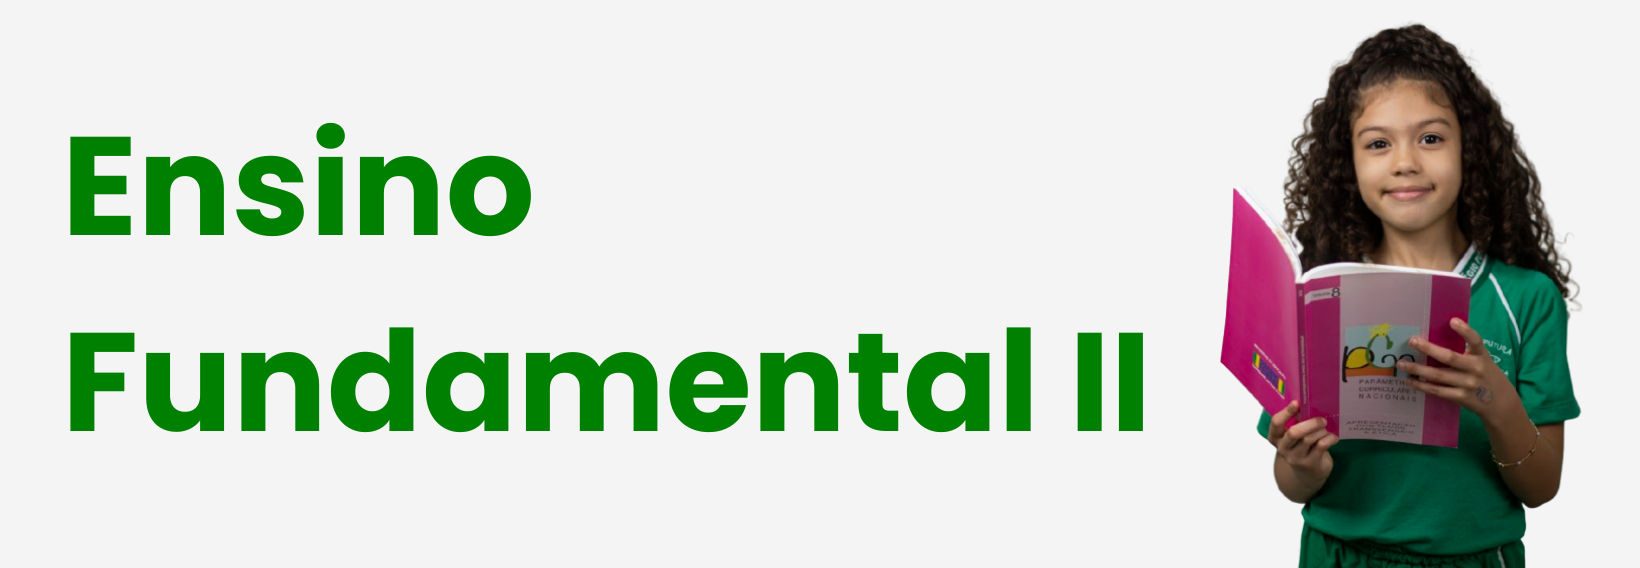
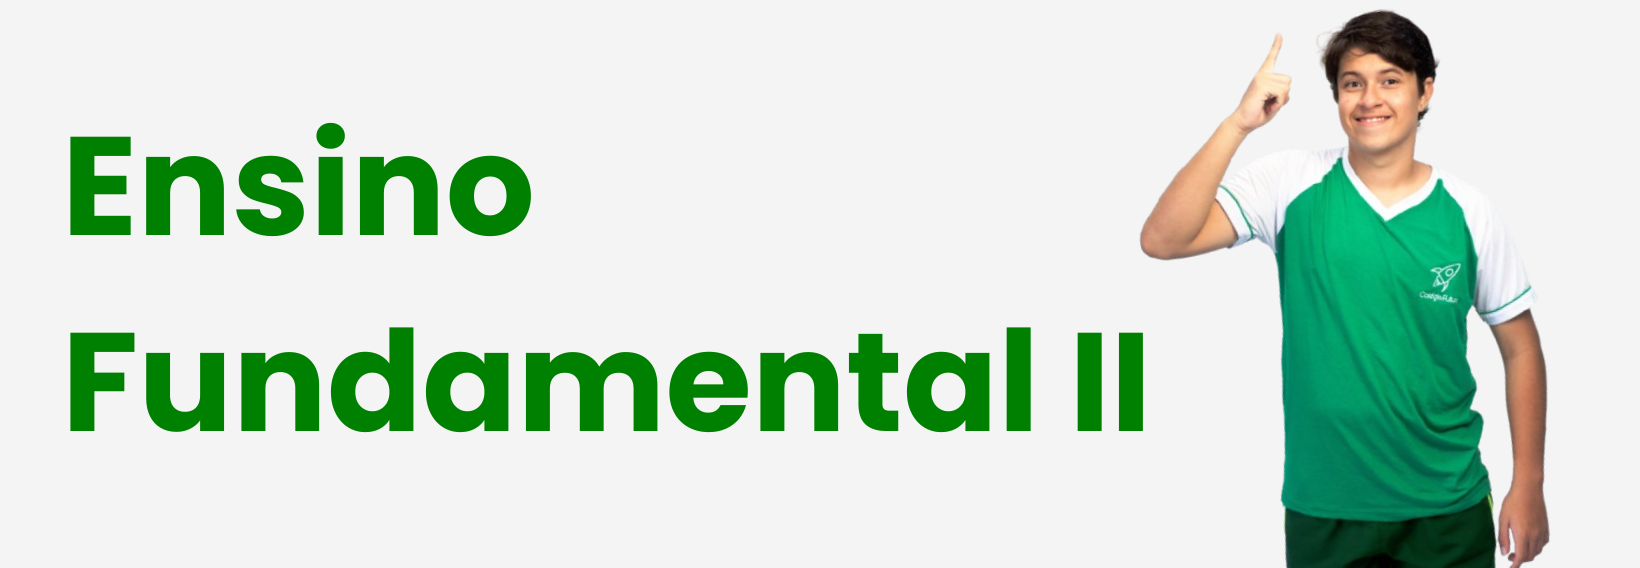
ajuste imagem nos ensinos

Changed region(s): [[0.6841, 0.0, 0.964, 1.0]]

diff --git a/html/ensino-fundamental1.html b/html/ensino-fundamental1.html
@@ -82,7 +82,7 @@
                     <p>Do ensino tradicional às práticas inovadoras, adaptamos nossas estratégias para atender às necessidades individuais de cada aluno, promovendo a excelência acadêmica e o crescimento pessoal. Utilizamos recursos educacionais diversificados e tecnologias 	modernas para enriquecer o processo de aprendizado, preparando nossos alunos para os desafios do mundo em constante evolução.</p>
                 </div>
                 <div class="galeria-container">
-                    <img src="../imagens/fundamentalI2.jpg" alt="Imagem Aboradagem Pedagógica">
+                    <img src="../imagens/fundamentalI2.jpg" alt="Imagem Ensino Fundamental 1">
                 </div>
             </div>
         </section>
@@ -90,7 +90,7 @@
             <h3 class="titulo" style="text-align:center; padding:5px 0;">Socioemocional</h3>
             <div style="display:flex; align-items:center;" class="wrapper">
                 <div class="galeria-container">
-                    <img src="../imagens/fundamentalI3.png" alt="Imagem Socioemocional">
+                    <img src="../imagens/fundamentalI3.jpg" alt="Imagem Socioemocional">
                 </div>
                 <div class="container">
                     <p>O ensino socioemocional no Ensino Fundamental 1 é crucial para o desenvolvimento das crianças, fornecendo habilidades fundamentais para lidar com emoções, resolver conflitos e estabelecer relacionamentos saudáveis. Essas habilidades não apenas contribuem para o bem-estar emocional dos alunos, mas também criam um ambiente escolar mais inclusivo e propício ao aprendizado. Ao ensinar empatia autorregulação e resolução de problemas estamos preparando os alunos para enfrentar os desafios da vida com confiança e compaixão.</p>
@@ -103,7 +103,7 @@
                 <div class="container">
                     <p>A educação financeira desempenha um papel crucial no ensino fundamental, preparando os alunos para uma vida adulta financeiramente estável e responsável. Durante esse período de 	formação, é fundamental que as crianças adquiram conhecimentos 	sólidos sobre como gerenciar dinheiro, fazer escolhas financeiras 	inteligentes e compreender o valor do trabalho e do planejamento.</p>
                 </div>
-                <div class="galeria-container">
+                <div style="object-fit: cover; object-position: top;" class="galeria-container">
                     <img src="../imagens/fundamentalI4.jpg" alt="Imagem Educação Financeira">
                 </div>
             </div>

diff --git a/html/ensino-fundamental2.html b/html/ensino-fundamental2.html
@@ -68,7 +68,7 @@
             <h3 class="titulo" style="text-align:center; padding:5px 0;">11 anos aos 15 anos </h3>
             <div style="display:flex; align-items:center;" class="wrapper">
                 <div class="galeria-container">
-                    <img src="../imagens/fundamentalII1.jpg" alt="Imagem Ensino Fundamental 2">
+                    <img src="../imagens/fundamentalII1.jpeg" alt="Imagem Ensino Fundamental 2">
                 </div>
                 <div class="container">
                     <p>No Ensino Fundamental 2, nossa missão é proporcionar uma educação de excelência que prepare os alunos para os desafios do mundo moderno. Este período é crucial para a consolidação e ampliação do conhecimento adquirido no Ensino Fundamental 1, bem como para o desenvolvimento de habilidades acadêmicas e socioemocionais essenciais.</p>
